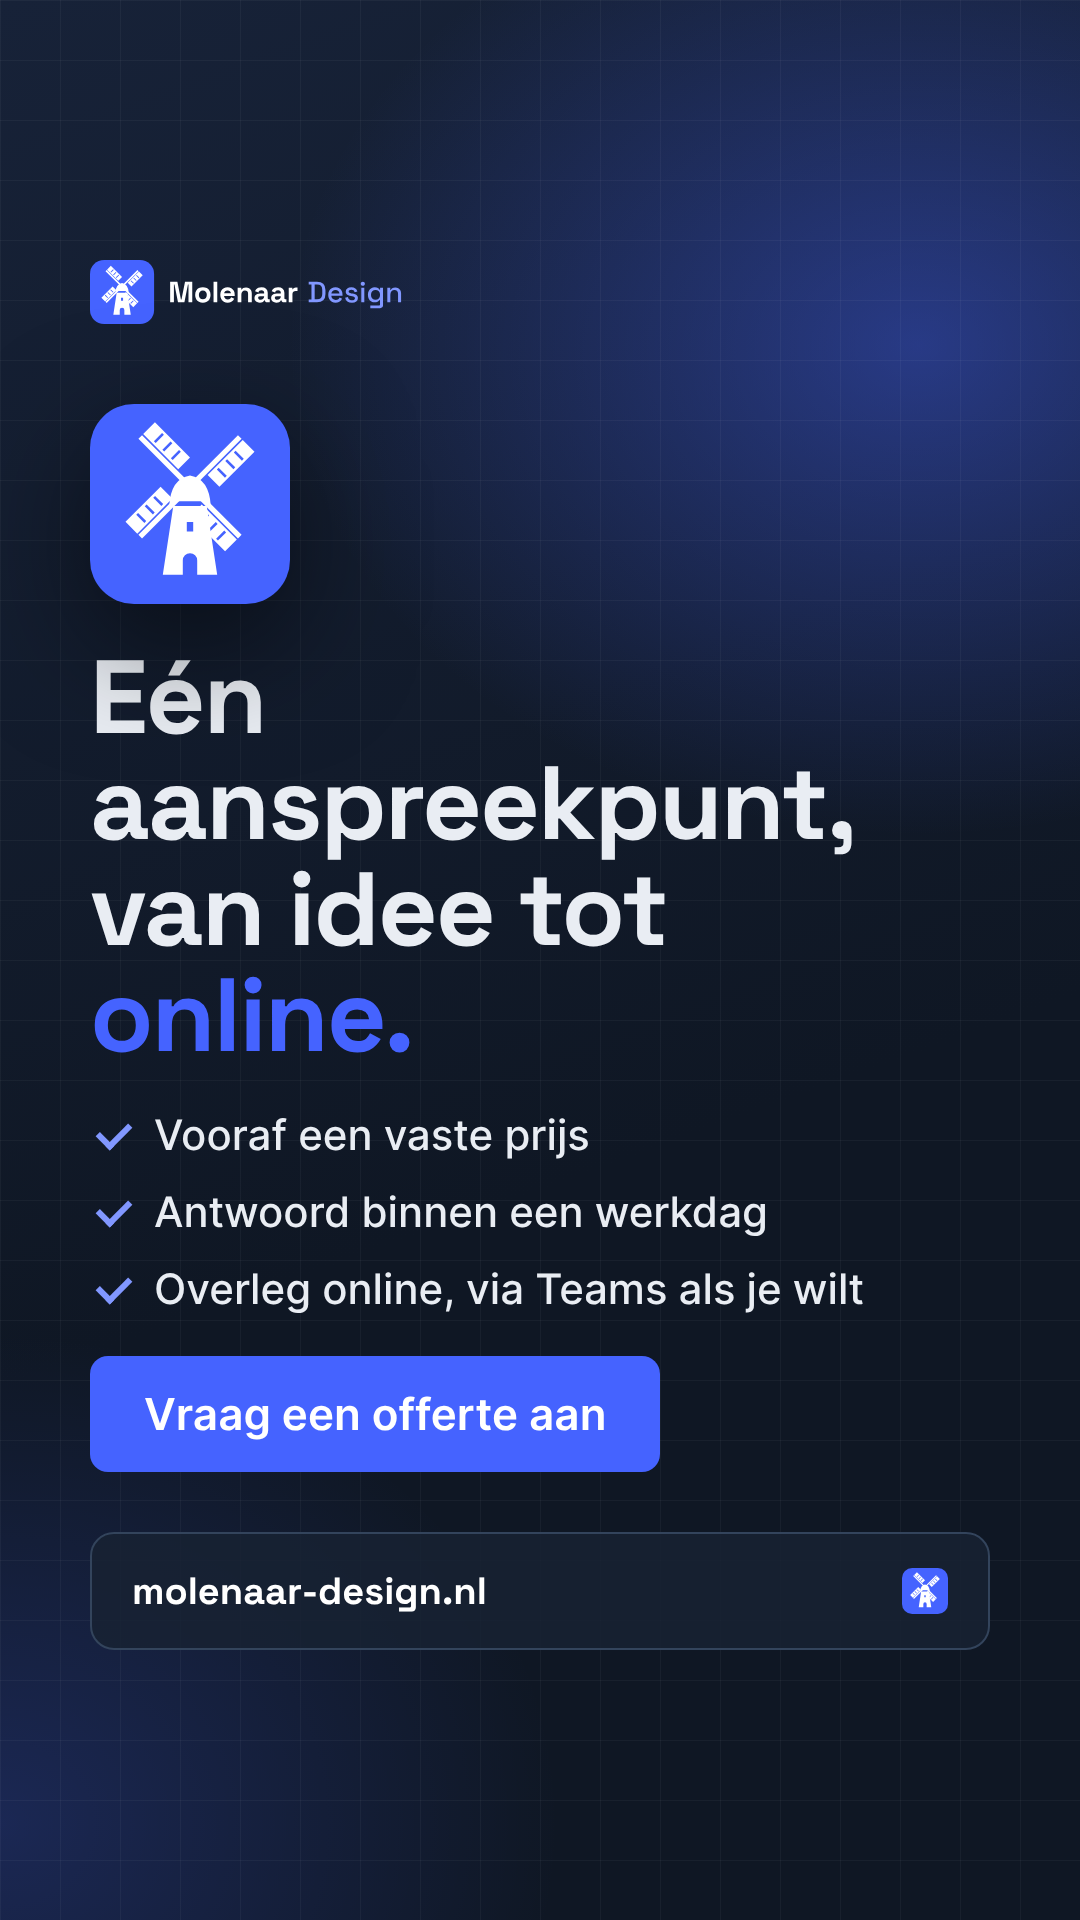
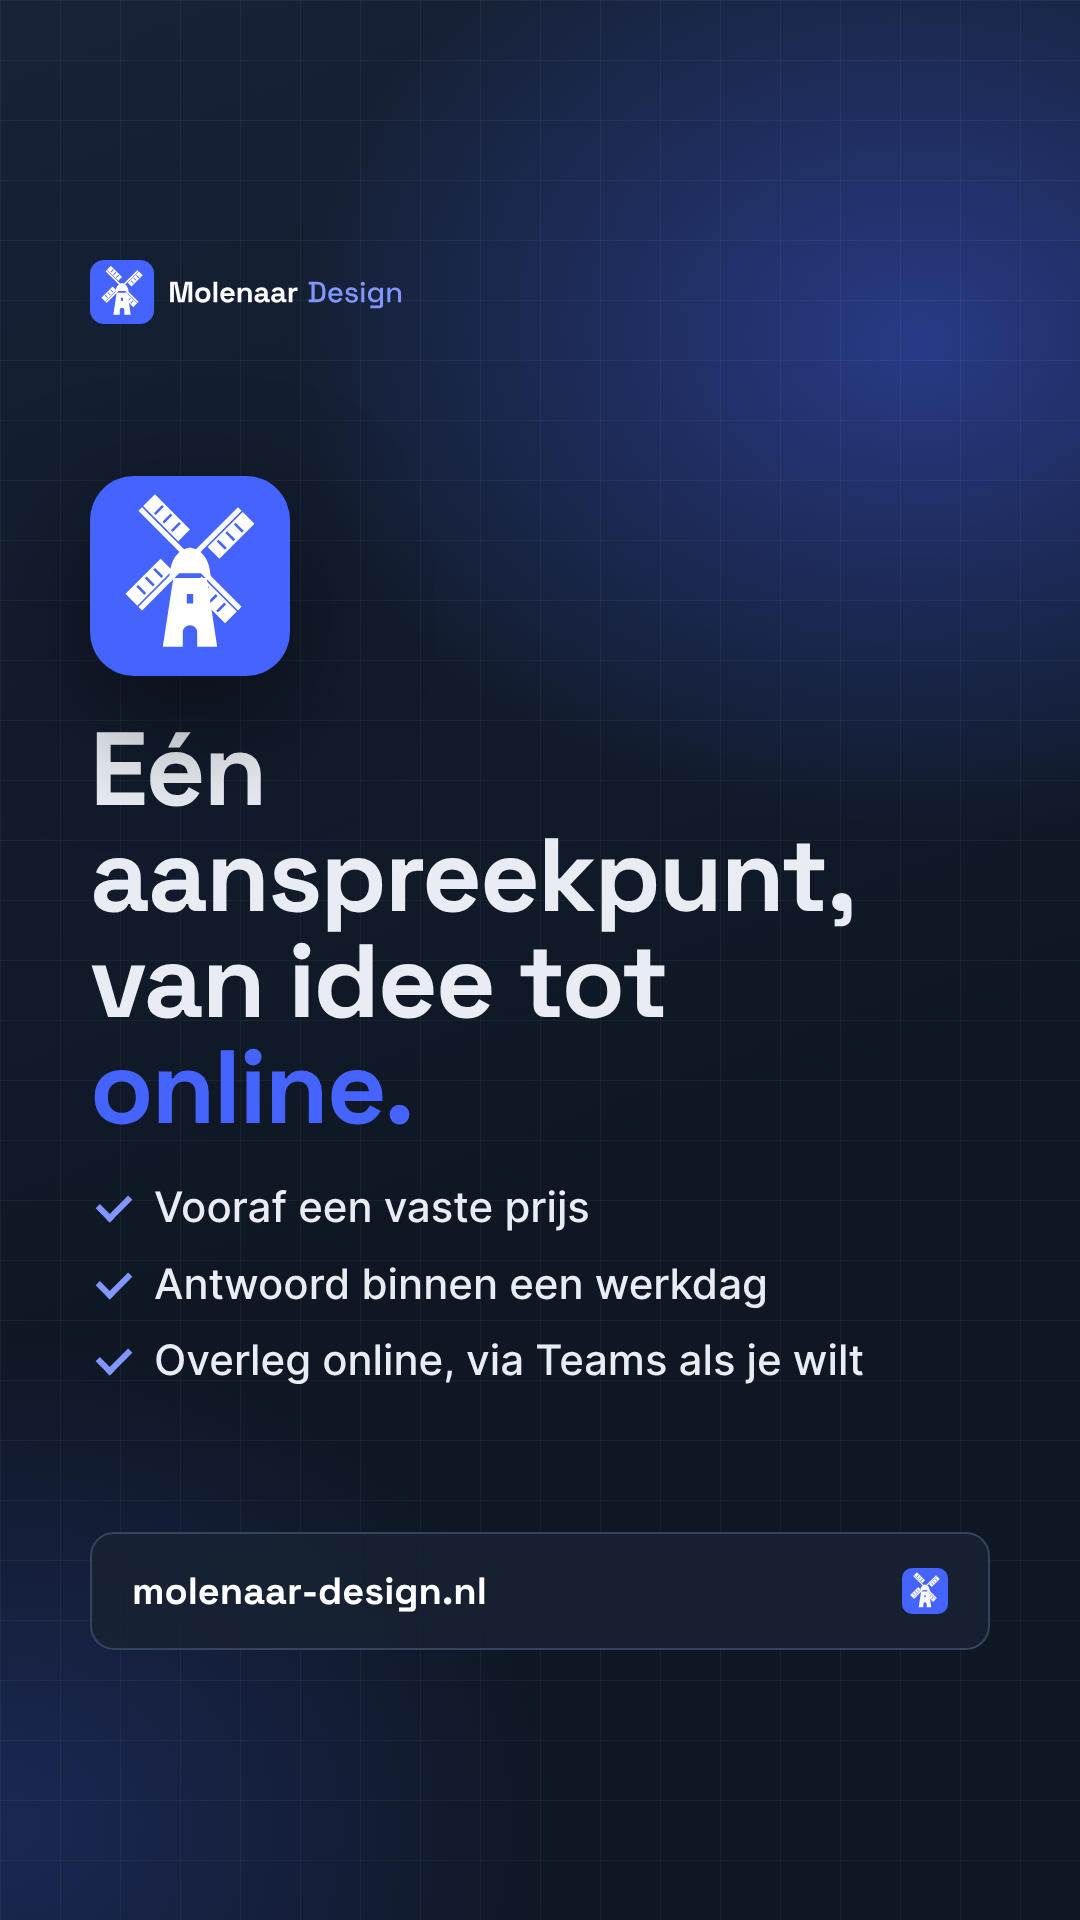
Remove call-to-action buttons from Instagram stories
Claude-Session: https://claude.ai/code/session_01BR2aM2KyyCs7b3zr3d6H45

Changed region(s): [[0.0611, 0.1875, 0.7944, 0.7812]]

diff --git a/README.md b/README.md
@@ -80,7 +80,7 @@ In `instagram/` staan vier reclamestories (1080 × 1920):
 - `story-02-reclame-app.png` – "Een eigen app voor je bedrijf?"
 - `story-03-reclame-waarom.png` – "Eén aanspreekpunt, van idee tot online."
 - `story-04-vraag-website.png` – "Is je website een beetje verouderd?" met de keuzes opfrisbeurt,
-  compleet nieuwe website of nieuw met backend, en "DM voor info"
+  compleet nieuwe website of nieuw met backend
 
 Tekst en logo staan binnen de veilige zone, zodat de knoppen van Instagram niets afdekken.
 
